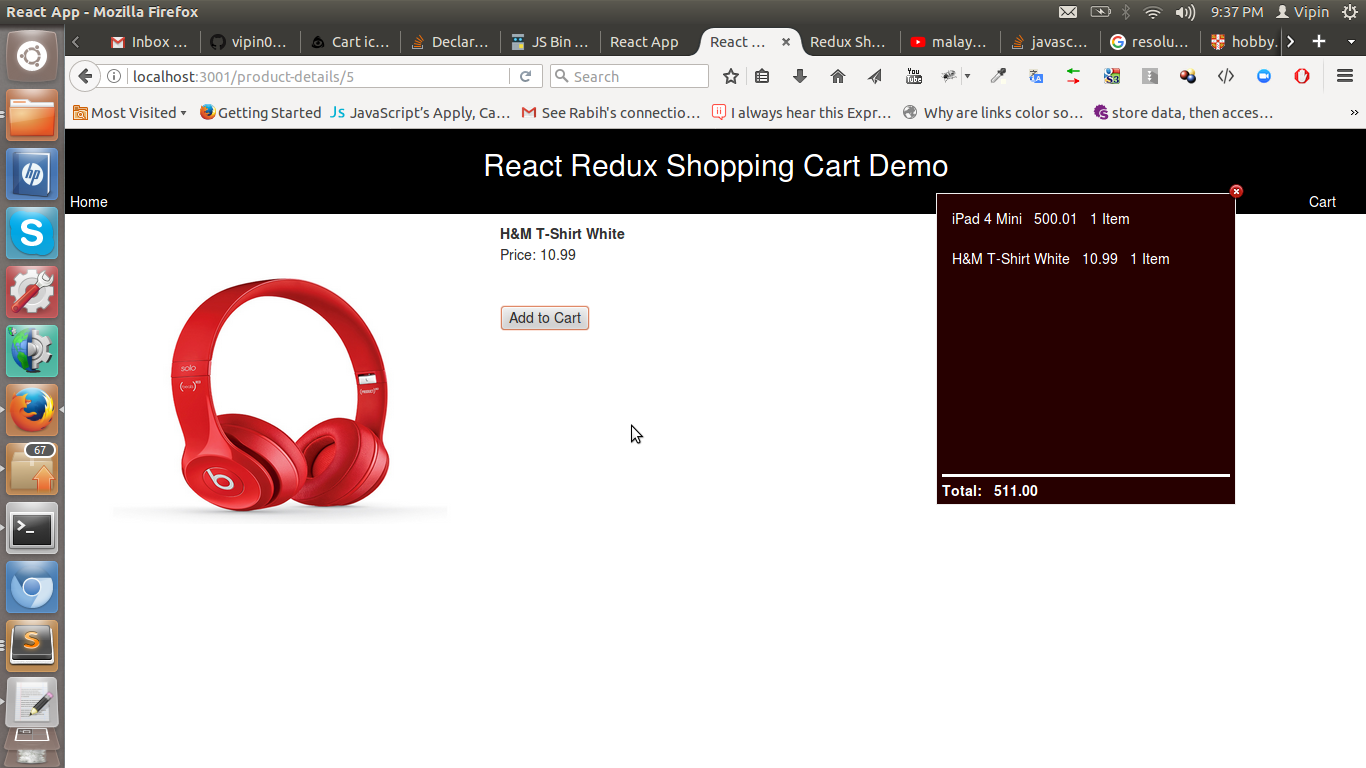
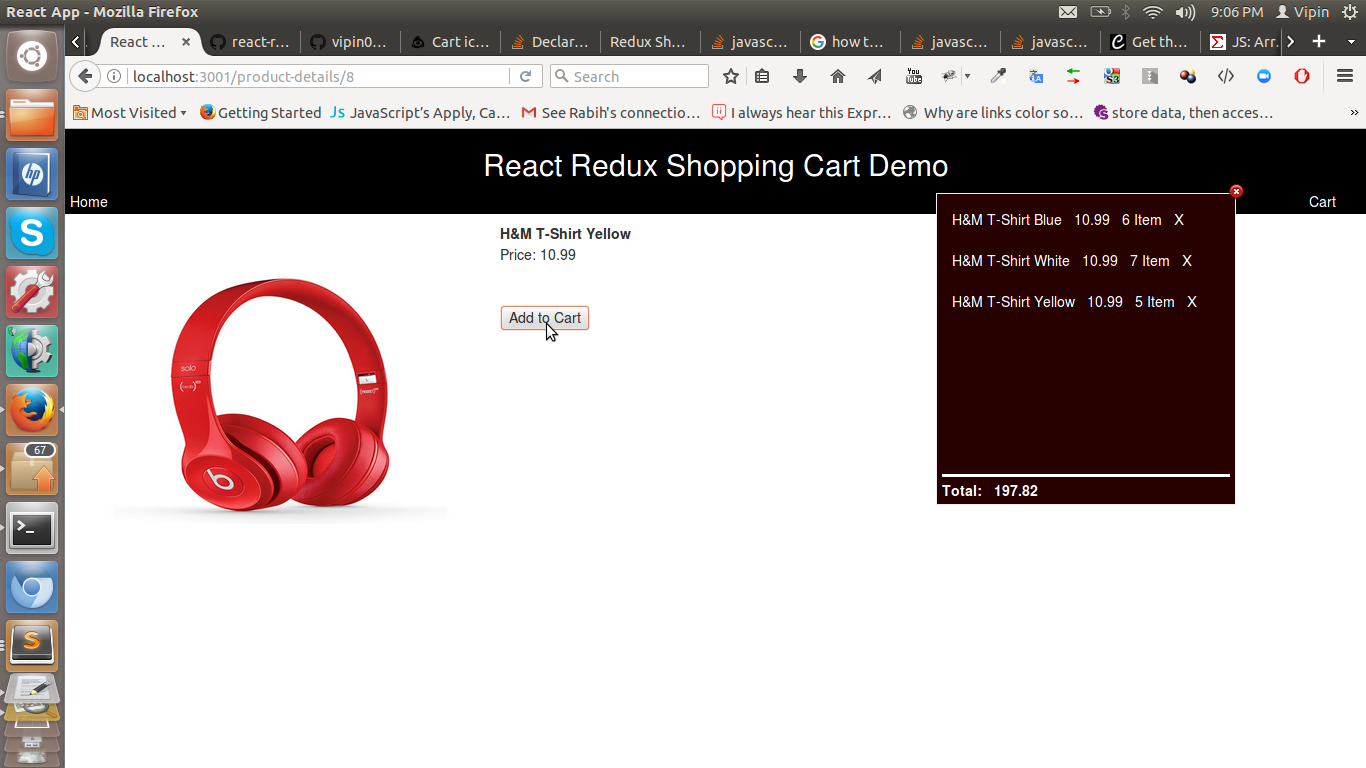
CHANGE: Added product remove option on the cart

diff --git a/src/components/Cart.js b/src/components/Cart.js
@@ -1,13 +1,14 @@
 import React from 'react';
 
-const Cart = ({props, total, isDialogOpen, close}) => {
+const Cart = ({props, total, isDialogOpen, close, removeFromCart}) => {
+	//const 
 	const data = props.length > 0 ? (	
-		<div className="cart">
-		<div onClick={close} className="close-icon"></div>
+		<div>
 		<div className="cart-container">
 		{props.map((data)=>(
 		
-		<div className="cart-items" key={data.id}>{data.title}&nbsp;&nbsp;  {data.price}&nbsp;&nbsp; {data.inventory}&nbsp;Item</div>
+		<div className="cart-items" key={data.id}>{data.title}&nbsp;&nbsp;  {data.price}&nbsp;&nbsp; {data.inventory}&nbsp;Item
+		&nbsp;&nbsp;<span className="cart-item-remove" onClick={()=>removeFromCart({'productId':data.id,'inventory':data.inventory})}>X</span></div>
 		))
 		}
 		</div>
@@ -16,7 +17,8 @@ const Cart = ({props, total, isDialogOpen, close}) => {
 	
 		return (
 		<div>
-		{isDialogOpen && (<div>{data}</div>)}
+		{isDialogOpen && (<div className="cart">
+		<div onClick={close} className="close-icon"></div>{data}</div>)}
 		</div>
 		)
 }

diff --git a/src/containers/CartContainer.js b/src/containers/CartContainer.js
@@ -3,12 +3,13 @@ import { connect } from 'react-redux';
 import { withRouter } from "react-router-dom";
 
 import { getCartDetails, getCartPrice } from '../reducers';
-import { closeCart } from '../action';
+import { closeCart, removeFromCart } from '../action';
 import Cart from '../components/Cart';
 
-const CartContainer = ({ cart, total, dialogBoxStatus, closeCart }) => (
+const CartContainer = ({ cart, total, dialogBoxStatus, closeCart, removeFromCart }) => (
 	<div>
-	<Cart props={cart} total={total} isDialogOpen={dialogBoxStatus} close={()=>closeCart()}/>
+	<Cart props={cart} total={total} isDialogOpen={dialogBoxStatus} close={()=>closeCart()} 
+	removeFromCart={removeFromCart}/>
 	</div>
 )
 
@@ -18,4 +19,4 @@ const mapStateToProps = (state) => ({
 	dialogBoxStatus: state.cart.dialogBoxStatus
 })
 
-export default connect(mapStateToProps, {closeCart})(CartContainer)
+export default connect(mapStateToProps, { closeCart, removeFromCart })(CartContainer)

diff --git a/src/reducers/product.js b/src/reducers/product.js
@@ -2,10 +2,15 @@ import { combineReducers } from 'redux';
 
 export const product = (state={},action) => {
 	switch(action.type){
-		case 'ADD_TO_CART':console.log("Added to cart sucessfully");
+		case 'ADD_TO_CART':
 			return {
 				...state,
 				inventory: state.inventory-1
+			};
+		case 'REMOVE_FROM_CART':
+			return {
+				...state,
+				inventory: state.inventory += action.inventory
 			};
 		default:
 			return state;
@@ -14,7 +19,7 @@ export const product = (state={},action) => {
 
 export const byId = (state = {}, action) => {
 	switch(action.type) {
-		case 'RECEIVE_PRODUCTS':console.log("Reducer product starting");
+		case 'RECEIVE_PRODUCTS':
 			return {
 				...state,
 				...action.products.reduce((obj, product) =>{
@@ -22,7 +27,7 @@ export const byId = (state = {}, action) => {
 					return obj
 				},{})
 			}
-		default: console.log("Default action")
+		default:
 			const { productId } = action;
 			if(productId){
 				return {

diff --git a/src/reducers/cart.js b/src/reducers/cart.js
@@ -10,6 +10,9 @@ const addedIds = (state = initialState.addedIds, action) =>{
 			if(state.indexOf(action.productId) !== -1)
 				return state;
 			return [...state, action.productId];
+		case 'REMOVE_FROM_CART':
+			let index = state.findIndex(id => id == action.productId);
+			return [...state.slice(0,index),...state.slice(index+1)];
 		default:
 			return state;
 	}
@@ -20,6 +23,11 @@ const productQuantities = (state = initialState.productQuantities, action) =>{
 		case 'ADD_TO_CART':
 			const { productId } = action;
 			return {...state,[productId]:(state[productId] || 0)+1}
+		case 'REMOVE_FROM_CART':
+			let index = action.productId;
+			let res = Object.assign({}, state)
+  			delete res[index]
+  			return res
 		default:
 			return state;
 	}

diff --git a/src/action/index.js b/src/action/index.js
@@ -32,6 +32,14 @@ export const addToCart = productId => (dispatch, getState) => {
 		dispatch(addToCartUnSafe(productId))
 }
 
+export const removeFromCart = (product) => { 
+	return {
+		type: 'REMOVE_FROM_CART',
+		productId: product.productId,
+		inventory: product.inventory
+	}
+}
+
 export const closeCart = () => {
 	return {
 		type: 'CLOSE_DIALOG',

diff --git a/src/App.css b/src/App.css
@@ -103,17 +103,25 @@
   border:1px solid #eee;
   z-index:1000;
 }
+
 .cart-items{
   padding:10px;
 }
+
 .cart-container{
   height:275px;
   overflow-y:auto;
 }
+
 .cart-total{
   font-weight:bold;
   border-top:solid;
   padding-top: 5px;
+}
+
+.cart-item-remove{
+  cursor:pointer;
+  font-size: 15px;
 }
 
 .close-icon{

diff --git a/src/reducers/index.js b/src/reducers/index.js
@@ -16,10 +16,8 @@ export const getCartDetails = (state) =>{
 }
 
 export const getCartPrice = (state) => {
-	console.log("Total fun")
 	return getCartDetails(state).reduce((total, item)=>{
 		total += (parseFloat(item.price)*parseFloat(item.inventory));
-		console.log("Total",total)
 		return total;
 	},0).toFixed(2);
 }
